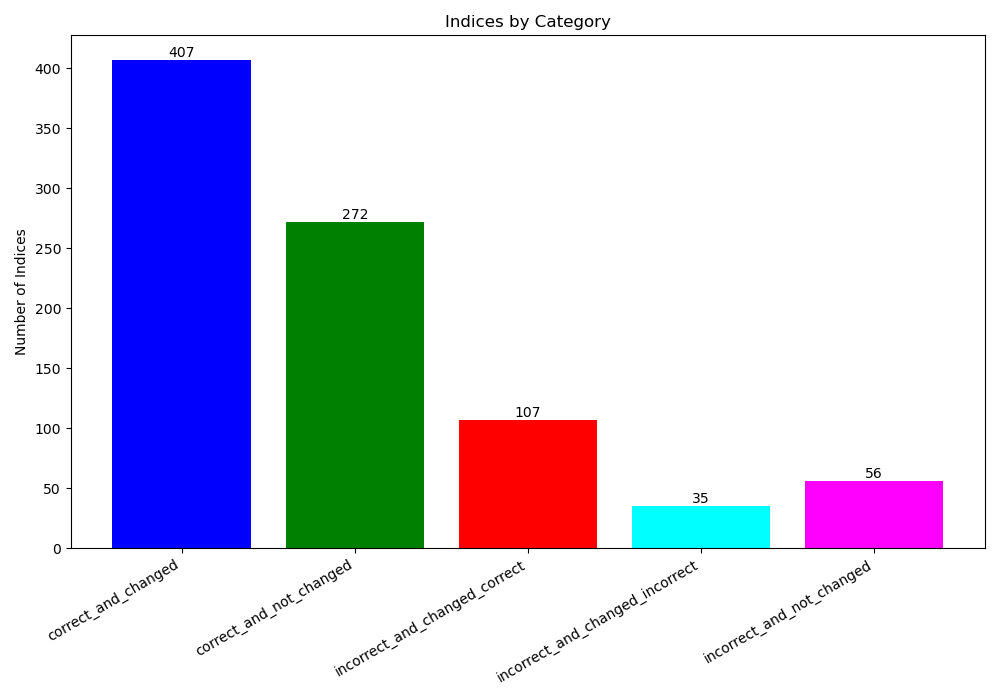
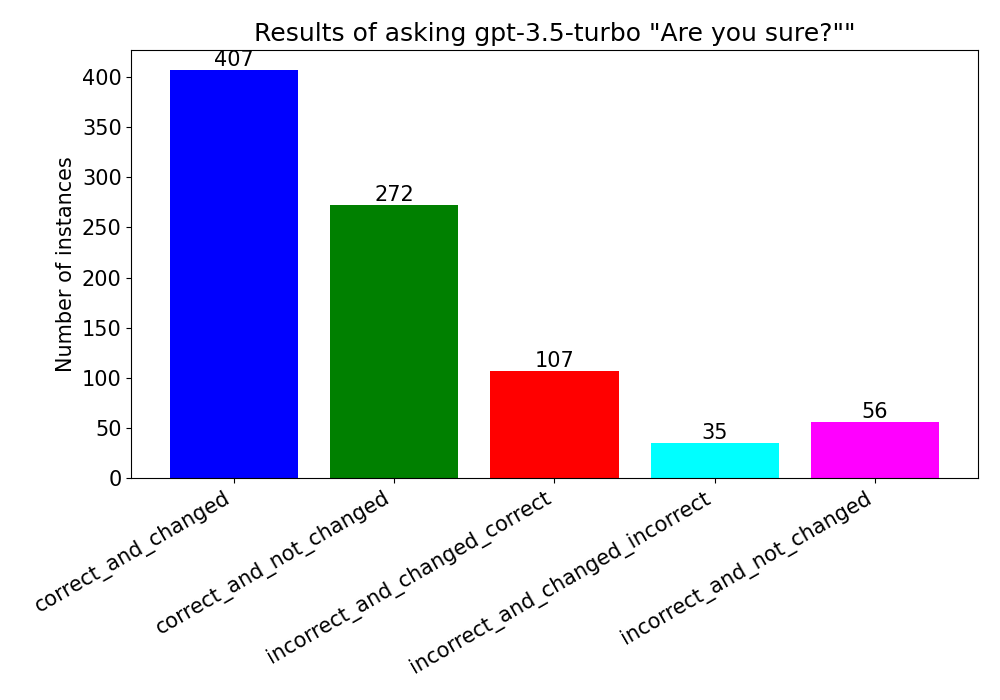
Improving presentation

diff --git a/plotter.py b/plotter.py
@@ -1,23 +1,27 @@
 import matplotlib.pyplot as plt
 
 
-def plotter(results, filename=None, display=True):
+def plotter(results, filename=None, display=True, title=None):
 
     labels = list(results.keys())
     values = [len(results[key]) for key in labels]
 
+    plt.rcParams.update({'font.size': 15})
     plt.figure(figsize=(10, 7))
     bars = plt.bar(labels, values, color=['blue', 'green', 'red', 'cyan', 'magenta'])
-    plt.ylabel('Number of Indices')
-    plt.title('Indices by Category')
+    plt.ylabel('Number of instances')
+    plt.title('Results of asking gpt-3.5-turbo "Are you sure?""')
     plt.xticks(rotation=30, ha='right')  # Rotate labels for better readability
     plt.tight_layout()  # Adjust spacing for better fit
+
+
 
     # Display the count above each bar
     for bar in bars:
         yval = bar.get_height()
         plt.text(bar.get_x() + bar.get_width()/2, yval + 0.1, int(yval), 
                 ha='center', va='bottom')
+
 
     if display:
         plt.show()

diff --git a/README.md b/README.md
@@ -19,11 +19,11 @@ This will set the EXPERIMENT_RANGE to (10, 50). This is a required argument.
 
 This will force a clean load of data and clean queries to GPT-3.5. If you don't provide any arguments, both values default to false.
 
-## Math equations
-![Graph](images/0-100.png)
 
+# Multiple choice questions
 
-## Multiple choice questions
+Results of asking "Are you sure?" after answers to 1000 multiple choice science questions.
+
 ![Graph of other things](images/multi-derek-thomas--ScienceQA-0-1000-v0.4.png)
 
 Generated with code:
@@ -32,10 +32,26 @@ Generated with code:
 python /Users/jamie/code/are-you-sure/main.py --dataset derek-thomas--ScienceQA --data-dir multi_data --type multi --range 0,1000
 ```
 
-# Temperature checks
+## Temperature checks
+
+At temperature = 1, the variance in answers was still quite low, at first glance. Here's 5 questions to demonstrate:
+
+![Graph of temperature distributions](images_distribution/170-multi-distribution-v0.5-t=1.0.png)
+![Graph of temperature distributions](images_distribution/171-multi-distribution-v0.5-t=1.0.png)
+![Graph of temperature distributions](images_distribution/172-multi-distribution-v0.5-t=1.0.png)
+![Graph of temperature distributions](images_distribution/173-multi-distribution-v0.5-t=1.0.png)
+![Graph of temperature distributions](images_distribution/174-multi-distribution-v0.5-t=1.0.png)
 
 Generated with code:
 
 ```bash
 python /Users/jamie/code/are-you-sure/distribution.py
 ```
+
+
+# Math equations
+
+I also asked some 1d linear algebra questions. I may return to this to see if the behaviour is different.
+
+![Graph](images/0-100.png)
+
